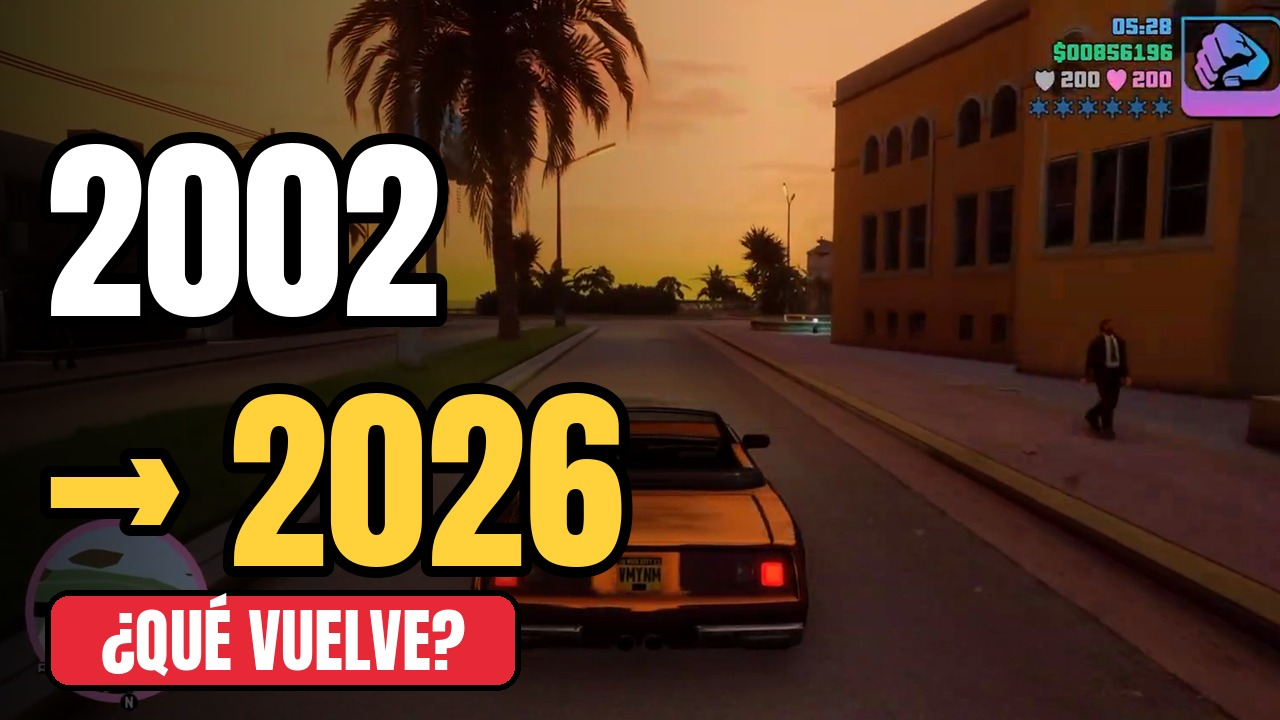
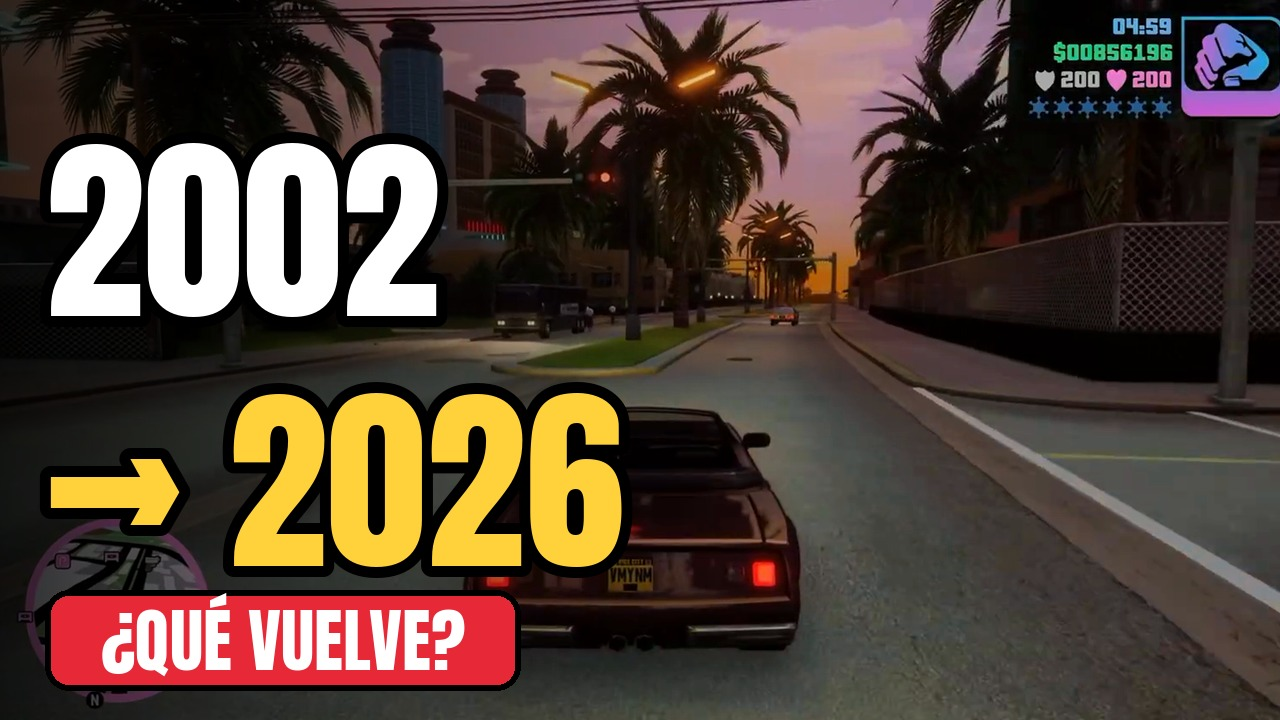
70x7-001: entregado con la voz clonada del usuario (largo 8:03 + 3 Shorts); miniatura TOP1 con el amanecer
Claude-Session: https://claude.ai/code/session_01F2HhdpymYkUFuoU6eTdwya

diff --git a/70x7/001-vice-city/guion.py b/70x7/001-vice-city/guion.py
@@ -221,7 +221,7 @@ THUMBS = [  # fondos: fotogramas de los clips (img/<clave>.png)
     dict(img="g_s57", zoom=1.0, cx=0.5, cy=0.5, shade=["left", 190, 0.55], items=[
         ["text", 45, 70, "VICE CITY", 170, "pink", "la"], ["text", 45, 300, "DE NOCHE", 120, "white", "la"], ["text", 45, 460, "AL AMANECER", 120, "yellow", "la"]]),
 ]
-THUMBS.append(dict(img="g_s57", zoom=1.0, cx=0.6, cy=0.5, bright=0.95, shade=["left", 235, 0.62], items=[
+THUMBS.append(dict(img="thumb_amanecer", zoom=1.0, cx=0.6, cy=0.5, bright=0.95, shade=["left", 235, 0.62], items=[
     ["text", 45, 50, "SOLO 1", 230, "white", "la"], ["text", 45, 330, "VUELVE", 150, "pink", "la"], ["badge", 45, 560, 560, 680, "EN GTA 6", 90]]))
 THUMBS.append(dict(img="g_s02", zoom=1.15, cx=0.6, cy=0.35, bright=1.15, shade=["left", 215, 0.6], items=[
     ["text", 45, 60, "VICE CITY", 175, "pink", "la"], ["text", 45, 290, "ANTES DE", 130, "white", "la"], ["text", 45, 450, "GTA 6", 170, "yellow", "la"]]))

diff --git a/70x7/001-vice-city/entrega/SUBIR.md b/70x7/001-vice-city/entrega/SUBIR.md
@@ -3,7 +3,7 @@
 > ⚠ **Antes de publicar:** el gameplay es de *The Gaming Motorist* (https://www.youtube.com/watch?v=7PdCFHkEkHo). Sin su permiso, el vídeo puede recibir un reclamo o un strike de copyright. Ver `PERMISO.md`. El crédito ya va en la descripción.
 
 
-## 🎬 VÍDEO LARGO — `70x7_001_largo.mp4` (7:41)
+## 🎬 VÍDEO LARGO — `70x7_001_largo.mp4` (8:03)
 
 **Título** (el primero es el recomendado)
 ```
@@ -22,15 +22,15 @@ Antes de que GTA 6 nos devuelva a Vice City, recorremos la Vice City original de
 
 📌 Capítulos
 0:00 Volver a Vice City
-0:35 01. Washington Beach
-1:09 02. Vice Point
-2:43 03. Leaf Links
-3:31 04. Little Haiti
-3:58 05. Little Havana
-4:28 06. Viceport
-5:13 07. Starfish Island
-5:49 08. De vuelta a la playa
-6:36 09. Ocean Beach
+0:36 01. Washington Beach
+1:11 02. Vice Point
+2:46 03. Leaf Links
+3:36 04. Little Haiti
+4:06 05. Little Havana
+4:38 06. Viceport
+5:26 07. Starfish Island
+6:03 08. De vuelta a la playa
+6:54 09. Ocean Beach
 
 📚 Fuentes
 • Game Informer (6-may-2025): Rockstar muestra seis zonas de Vice City (web oficial de GTA VI)
@@ -39,7 +39,7 @@ Antes de que GTA 6 nos devuelva a Vice City, recorremos la Vice City original de
 • Take-Two (2008): ventas de GTA Vice City
 • GTA Wiki / Grand Theft Wiki: Starfish Island, Vercetti Estate, Ocean View Hotel
 
-Gameplay: «Night Drive Around Vice City in a Stinger Convertible» de The Gaming Motorist (https://www.youtube.com/watch?v=7PdCFHkEkHo), sin la radio del juego. Música original generada con IA y narración con voz sintética. Canal no afiliado a Rockstar Games ni a Take-Two.
+Gameplay: «Night Drive Around Vice City in a Stinger Convertible» de The Gaming Motorist (https://www.youtube.com/watch?v=7PdCFHkEkHo), sin la radio del juego. Música original generada con IA. Narración con mi voz clonada con IA. Canal no afiliado a Rockstar Games ni a Take-Two.
 
 #GTA6 #ViceCity #GTAVI #70x7
 ```
@@ -51,7 +51,7 @@ GTA 6, GTA VI, Vice City, GTA Vice City, GTA 6 Vice City, GTA 6 mapa, GTA 6 Leon
 
 **Ajustes al subir**
 - Contenido para niños: **No**
-- Contenido alterado o sintético: **No (gameplay real; la voz sintética no imita a ninguna persona real)**
+- Contenido alterado o sintético: **No (la narración es la voz del propio creador, clonada; no imita a otra persona)**
 - Subtítulos: `subtitulos_largo.srt` (Español)
 - Categoría: **Videojuegos** · Idioma: **Español**
 - Pantalla final (últimos 10 s): "Suscribirse" + "Vídeo más reciente"
@@ -64,7 +64,7 @@ GTA 6, GTA VI, Vice City, GTA Vice City, GTA 6 Vice City, GTA 6 mapa, GTA 6 Leon
 
 ---
 
-## 📱 SHORT A — `70x7_001_short_a.mp4` (17 s)
+## 📱 SHORT A — `70x7_001_short_a.mp4` (18 s)
 
 **Título**
 ```
@@ -85,7 +85,7 @@ GTA 6, Little Cuba, Little Havana, Vice City, GTA 6 mapa, 70x7
 
 ---
 
-## 📱 SHORT B — `70x7_001_short_b.mp4` (16 s)
+## 📱 SHORT B — `70x7_001_short_b.mp4` (17 s)
 
 **Título**
 ```
@@ -106,7 +106,7 @@ GTA 6, Starfish Island, Vice City, Scarface, Tommy Vercetti, 70x7
 
 ---
 
-## 📱 SHORT C — `70x7_001_short_c.mp4` (20 s)
+## 📱 SHORT C — `70x7_001_short_c.mp4` (22 s)
 
 **Título**
 ```

diff --git a/produccion.md b/produccion.md
@@ -7,6 +7,6 @@
 | 003 | BYD: de baterías de móvil a superar a Tesla | 2026-11-02 | 8:09 | 5 | ~13.900 (voz ElevenLabs + música); imágenes en Higgsfield (14 × 0,15 cr) | pendiente (3-nov) | DubVoice sin imágenes ni vídeo 01-02 nov → imágenes z_image de Higgsfield y render en su sandbox; sin clips IA. Enlaces en `videos/003-byd/entrega/DESCARGAS.md` |
 | 004 | Carlos Ghosn y Nissan (salvó a Nissan y huyó en una caja) | 2026-11-03 | 8:10 | 3 | ~8.300 (voz ElevenLabs; música reutilizada del 003); 15 imágenes Higgsfield (2,25 cr) | pendiente | gancho nuevo "en plena acción" + giro mexicano; render en sandbox de Higgsfield; largo recodificado a crf 27 (67 MB) |
 | 005 | Volkswagen: la mentira del diésel y el cierre de fábricas | 2026-11-05 | 8:10 | 3 | ~7.400 (voz ElevenLabs); ~17 créditos de vidIQ (16 búsquedas de tomas) | pendiente (programar) | primer vídeo con **vídeo real de archivo** (Pexels vía vidIQ), sin IA de imagen; Shorts de ~19 s; render local y entrega directa |
-| 70x7-001 | Recorrí toda Vice City antes de GTA 6 (canal 70x7) | 2026-11-06 | 7:42 | 3 | ~7.500 (voz Adán); vidIQ 55 (2 pistas de música + 1 transcripción) | **pendiente de permiso** | la grabación del usuario es un vídeo ajeno de YouTube (The Gaming Motorist) grabado con el celular; quitados Centro de control, "-10" y notificaciones (BAN); crédito en la descripción y `entrega/PERMISO.md` |
+| 70x7-001 | Toda Vice City antes de GTA 6 (canal 70x7) | 2026-11-06 | 8:03 | 3 | ~7.500 (voz Adán, descartada) + ~7.800 (voz clonada del usuario); vidIQ 55 (2 pistas de música + 1 transcripción) | **pendiente de permiso** | la grabación del usuario es un vídeo ajeno de YouTube (The Gaming Motorist) grabado con el celular; quitados Centro de control, "-10" y notificaciones (BAN); crédito en la descripción y `entrega/PERMISO.md` |
 
 Saldo DubVoice tras el 002: 153.907 créditos. Tras el 003: 140.034. Higgsfield: ~2,5 créditos. Tras el 004: DubVoice 117.959; Higgsfield ~0,25 (ya no llega para otro vídeo).
